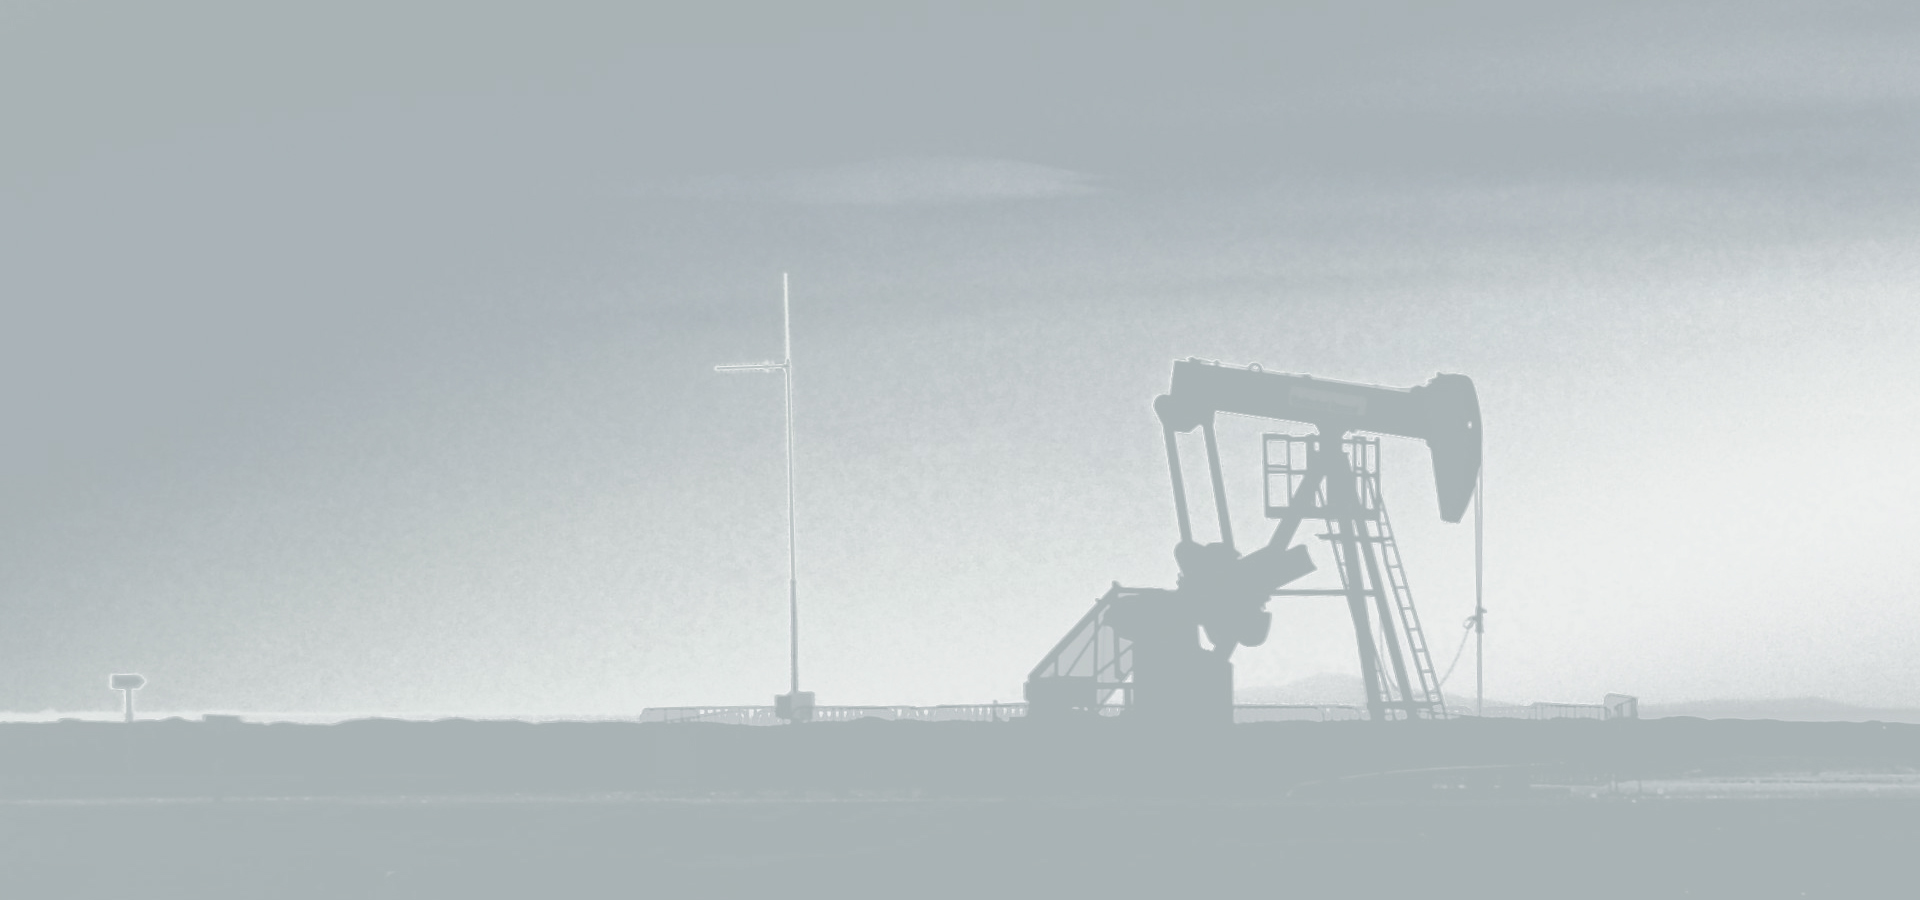
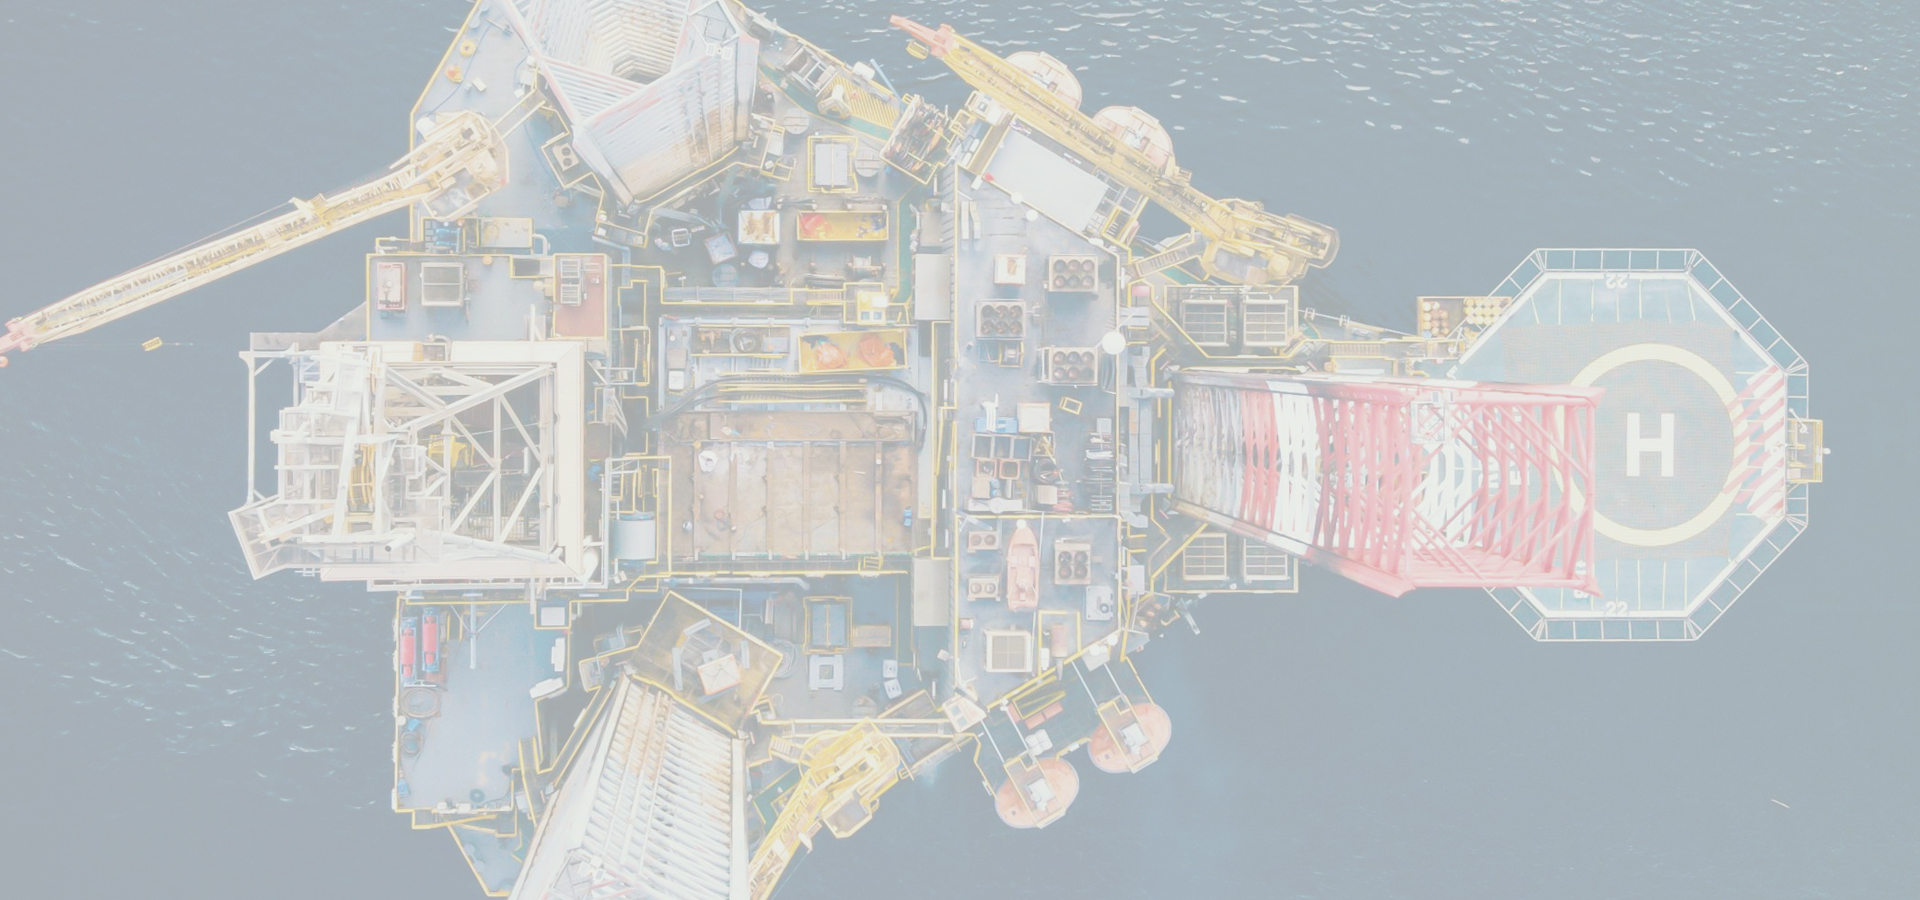
modify main page

diff --git a/index.html b/index.html
@@ -54,12 +54,14 @@
       <div class="container d-flex justify-content-center justify-content-md-between">
         <div class="contact-info d-flex align-items-center">
           <i class="bi bi-envelope d-flex align-items-center"><a href="mailto:info@limetree-systems.nl">info@limetree-systems.nl</a></i>
-          <i class="bi bi-phone d-flex align-items-center ms-4"><span>+31 5589 55488 55</span></i>
+          <!--remove phone information-->
+          <!--<i class="bi bi-phone d-flex align-items-center ms-4"><span>+31 5589 55488 55</span></i>-->
         </div>
         <div class="social-links d-none d-md-flex align-items-center">
+          <!-- show only Linkedin
           <a href="#" class="twitter"><i class="bi bi-twitter-x"></i></a>
           <a href="#" class="facebook"><i class="bi bi-facebook"></i></a>
-          <a href="#" class="instagram"><i class="bi bi-instagram"></i></a>
+          <a href="#" class="instagram"><i class="bi bi-instagram"></i></a>-->
           <a href="#" class="linkedin"><i class="bi bi-linkedin"></i></a>
         </div>
       </div>
@@ -80,7 +82,7 @@
             <li><a href="#about">About</a></li>
             <li><a href="#services">Services</a></li>
             <li><a href="#portfolio">Portfolio</a></li>
-            <li><a href="#team">Team</a></li>            
+            <li><a href="#team">Team</a></li>
           <i class="mobile-nav-toggle d-xl-none bi bi-list"></i>
         </nav>
 
@@ -101,7 +103,7 @@
             <div class="col-lg-8 text-center">
               <img src="assets/img/lts_logo.png" alt="Limetree Systems logo">
               <!-- <h2>Welcome to Limetree Systems</span> happen!</h2> -->
-              <p>We are dedicated for delivering superior systems to our customers at competitive prices through operational excellence.</p>
+              <p>Sharp, Reliable and Compliant.</p>
               <!-- <a href="#featured-services" class="btn-get-started">Get Started</a> -->
             </div>
           </div>
@@ -120,6 +122,10 @@
 
         <div class="carousel-item">
           <img src="assets/img/hero-carousel/lts_carousel3.jpg" alt="">
+        </div>
+
+        <div class="carousel-item">
+          <img src="assets/img/hero-carousel/lts_carousel4.jpg" alt="">
         </div>
 
         <a class="carousel-control-prev" href="#hero-carousel" role="button" data-bs-slide="prev">
@@ -151,7 +157,7 @@
               <li><i class="bi bi-check2-all"></i> <span>Scope fabrication requirementst, including detailed design.</span></li>
               <li><i class="bi bi-check2-all"></i> <span>Advise on project design and pre-sales activities.</span></li>
               <li><i class="bi bi-check2-all"></i> <span>Provide procurement services and resources.</span></li>
-            </ul>            
+            </ul>
           </div>
         </div>
 
@@ -632,15 +638,15 @@
                 <p>Adamski Veld 108, Rotterdam, 5350 OP,<br>The Netherlands</p>
               </div>
             </div><!-- End Info Item -->
-
+            <!--- #exclude phone information
             <div class="info-item d-flex" data-aos="fade-up" data-aos-delay="400">
               <i class="bi bi-telephone flex-shrink-0"></i>
               <div>
                 <h3>Call Us</h3>
                 <p>+31 5589 55488 55</p>
               </div>
-            </div><!-- End Info Item -->
-
+            </div>-->
+            <!-- End Info Item -->
             <div class="info-item d-flex" data-aos="fade-up" data-aos-delay="500">
               <i class="bi bi-envelope flex-shrink-0"></i>
               <div>
